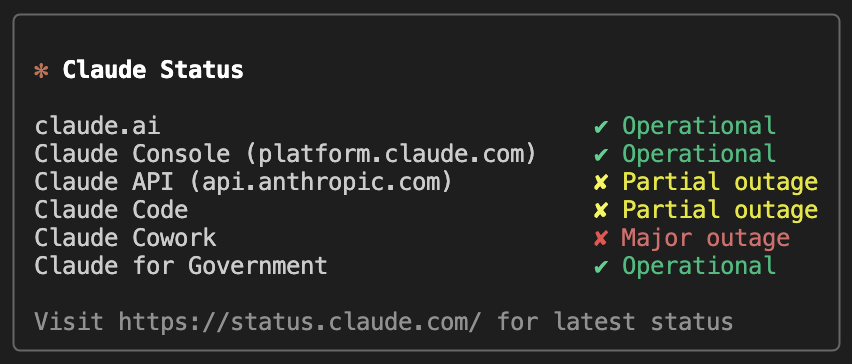
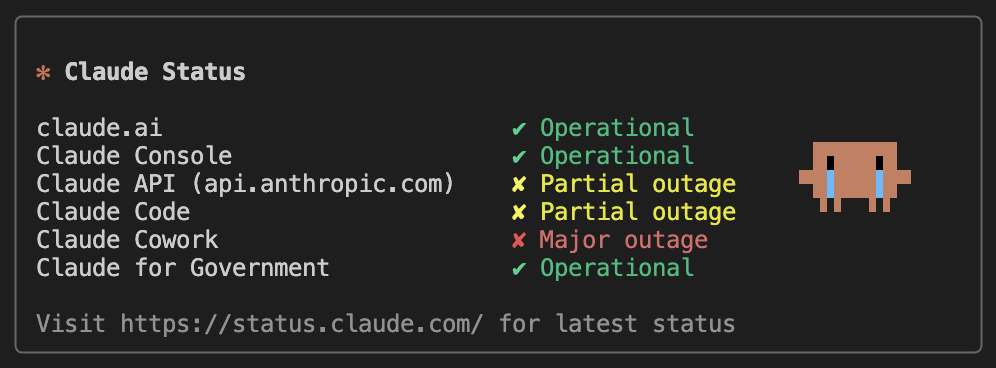
docs: update README and demo screenshot for --clawd flag
Documents the --clawd option with crying-on-outage behaviour.
Updates demo-all.png to show the new logo and outage state.

diff --git a/README.md b/README.md
@@ -20,14 +20,15 @@ downlaude [options] # customize the output to what you need
 
 ### Options:
 
-| Flag & Alias        | Description                            |
-| ------------------- | -------------------------------------- |
-| `-a`,<br>`--all`    | Show all Claude services               |
-| `-s`,<br>`--silent` | No output. Exits with `0`, `1`, or `2` |
-| `-h`,<br>`--help`   | Show help                              |
+| Flag & Alias        | Description                                      |
+| ------------------- | ------------------------------------------------ |
+| `-a`,<br>`--all`    | Show all Claude services                         |
+| `-s`,<br>`--silent` | No output. Exits with `0`, `1`, or `2`           |
+| `-h`,<br>`--help`   | Show help                                        |
+| `--clawd`           | Show Clawd mascot (cries when a service is down) |
 
-For example, with `--all` flag:  
-<img src="https://raw.githubusercontent.com/dawsonhuang0/downlaude/main/demo-all.png" width="443" />
+For example, with `--all` and `--clawd` flags:  
+<img src="https://raw.githubusercontent.com/dawsonhuang0/downlaude/main/demo-all.png" width="518" />
 
 ## Scripting Friendliness
 